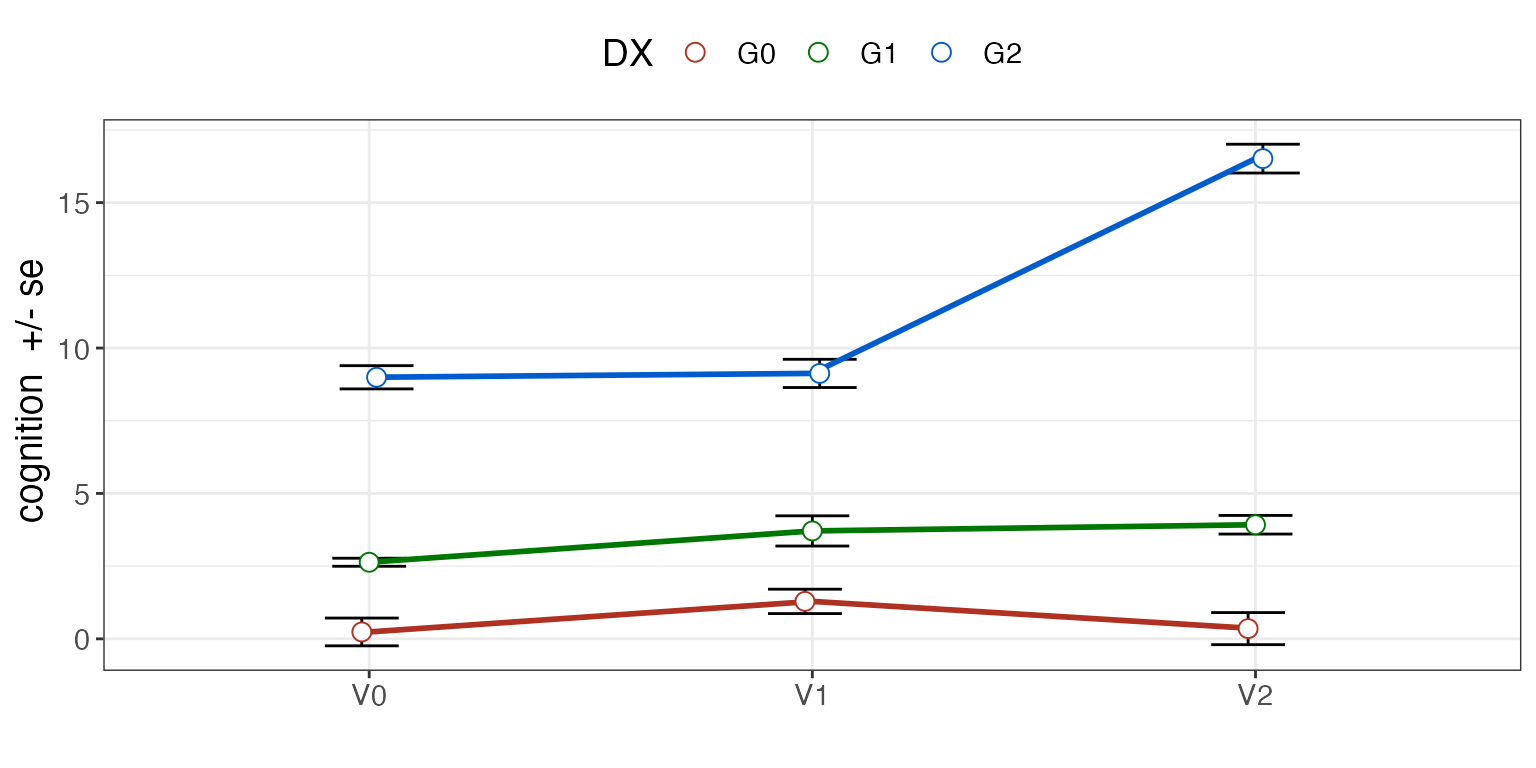
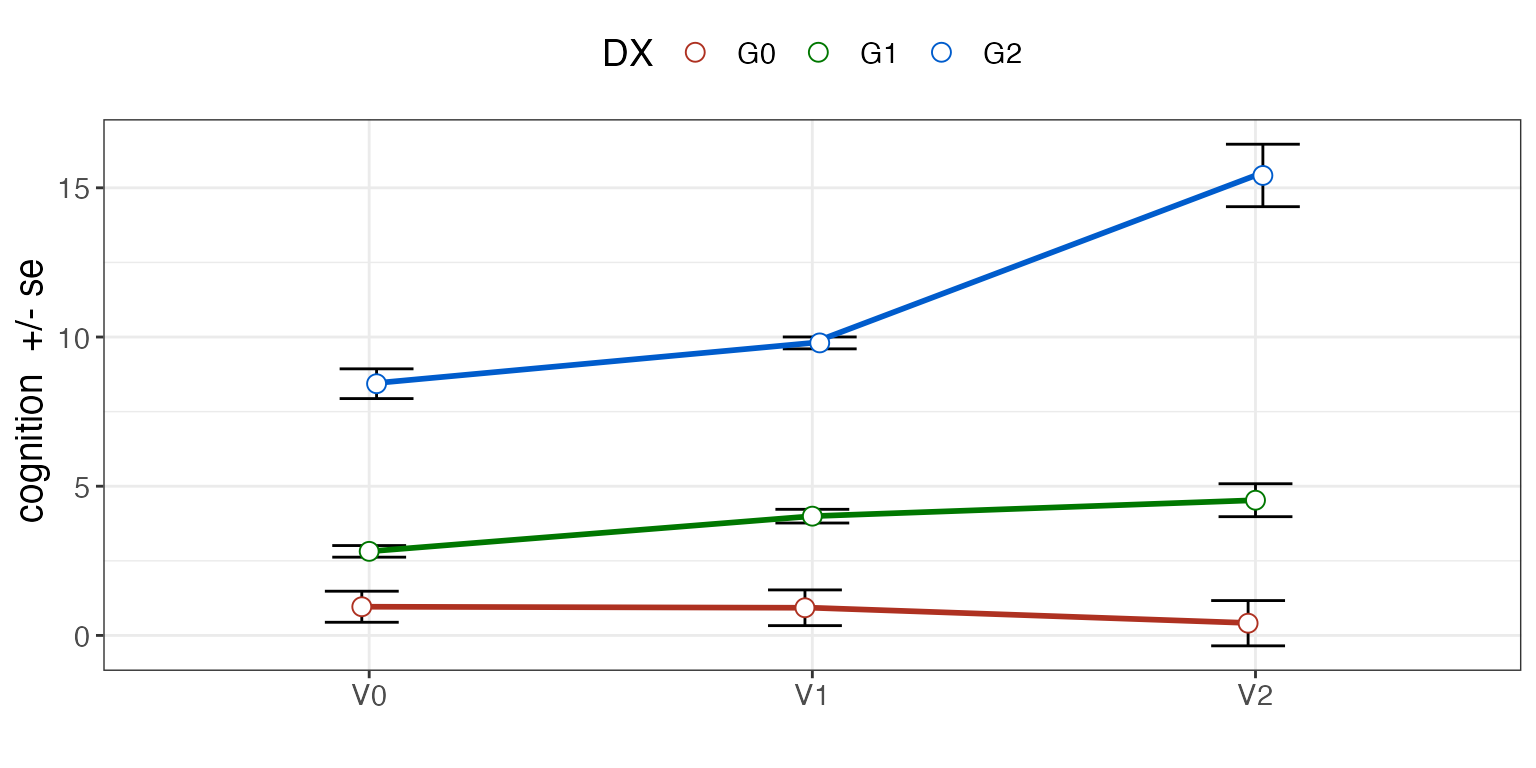
BUG: factor order; ENH: return ggplot

diff --git a/docs/articles/subtyper.html b/docs/articles/subtyper.html
@@ -184,27 +184,27 @@
 <tbody>
 <tr class="odd">
 <td align="left">C0</td>
+<td align="right">3</td>
 <td align="right">12</td>
-<td align="right">0</td>
 <td align="right">0</td>
 </tr>
 <tr class="even">
 <td align="left">C1</td>
 <td align="right">0</td>
-<td align="right">9</td>
 <td align="right">0</td>
+<td align="right">6</td>
 </tr>
 <tr class="odd">
 <td align="left">C2</td>
 <td align="right">0</td>
-<td align="right">2</td>
-<td align="right">4</td>
+<td align="right">0</td>
+<td align="right">5</td>
 </tr>
 <tr class="even">
 <td align="left">C3</td>
+<td align="right">9</td>
 <td align="right">0</td>
 <td align="right">0</td>
-<td align="right">7</td>
 </tr>
 </tbody>
 </table>
@@ -214,11 +214,13 @@
 <a href="#visualize-the-results" class="anchor"></a>Visualize the results</h2>
 <p>See the difference with diagnosis.</p>
 <div class="sourceCode" id="cb9"><pre class="downlit sourceCode r">
-<code class="sourceCode R"><span class="va">summ</span> <span class="op">=</span> <span class="fu"><a href="../reference/plotSubtypeChange.html">plotSubtypeChange</a></span><span class="op">(</span> <span class="va">mydf</span>, <span class="st">"Id"</span>, <span class="st">"cognition"</span>, <span class="st">"DX"</span>, <span class="st">"visit"</span>, whiskervar<span class="op">=</span><span class="st">'se'</span>  <span class="op">)</span></code></pre></div>
+<code class="sourceCode R"><span class="va">summ</span> <span class="op">=</span> <span class="fu"><a href="../reference/plotSubtypeChange.html">plotSubtypeChange</a></span><span class="op">(</span> <span class="va">mydf</span>, <span class="st">"Id"</span>, <span class="st">"cognition"</span>, <span class="st">"DX"</span>, <span class="st">"visit"</span>, whiskervar<span class="op">=</span><span class="st">'se'</span>  <span class="op">)</span>
+<span class="fu"><a href="https://rdrr.io/r/base/print.html">print</a></span><span class="op">(</span> <span class="va">summ</span> <span class="op">)</span></code></pre></div>
 <p><img src="subtyper_files/figure-html/plotit-1.png" width="768"> See the difference with subtype.</p>
 <div class="sourceCode" id="cb10"><pre class="downlit sourceCode r">
 <code class="sourceCode R"><span class="va">summ</span> <span class="op">=</span> <span class="fu"><a href="../reference/plotSubtypeChange.html">plotSubtypeChange</a></span><span class="op">(</span> <span class="va">pdf</span>, <span class="st">"Id"</span>, <span class="st">"cognition"</span>, <span class="st">"subtype"</span>, <span class="st">"visit"</span>, whiskervar<span class="op">=</span><span class="st">'se'</span> <span class="op">)</span>
-<span class="co">#&gt; Warning in qt(conf.interval/2 + 0.5, datac$N - 1): NaNs produced</span></code></pre></div>
+<span class="co">#&gt; Warning in qt(conf.interval/2 + 0.5, datac$N - 1): NaNs produced</span>
+<span class="fu"><a href="https://rdrr.io/r/base/print.html">print</a></span><span class="op">(</span> <span class="va">summ</span> <span class="op">)</span></code></pre></div>
 <p><img src="subtyper_files/figure-html/plotit2-1.png" width="768"></p>
 <p>Visualization of the subtype definition against various outcomes is key to establishing validity.</p>
 </div>

diff --git a/docs/reference/plotSubtypeChange.html b/docs/reference/plotSubtypeChange.html
@@ -178,7 +178,7 @@
 
     <h2 class="hasAnchor" id="value"><a class="anchor" href="#value"></a>Value</h2>
 
-    <p>data frame</p>
+    <p>ggplot</p>
     <h2 class="hasAnchor" id="author"><a class="anchor" href="#author"></a>Author</h2>
 
     <p>Avants BB</p>
@@ -186,7 +186,7 @@
     <h2 class="hasAnchor" id="examples"><a class="anchor" href="#examples"></a>Examples</h2>
     <pre class="examples"><div class='input'><span class='va'>mydf</span> <span class='op'>=</span> <span class='fu'><a href='generateSubtyperData.html'>generateSubtyperData</a></span><span class='op'>(</span> <span class='fl'>100</span> <span class='op'>)</span>
 <span class='va'>summ</span> <span class='op'>=</span> <span class='fu'>plotSubtypeChange</span><span class='op'>(</span> <span class='va'>mydf</span>, <span class='st'>"Id"</span>, <span class='st'>"cognition"</span>, <span class='st'>"DX"</span>, <span class='st'>"visit"</span> <span class='op'>)</span>
-</div><div class='img'><img src='plotSubtypeChange-1.png' alt='' width='700' height='433' /></div></pre>
+</div></pre>
   </div>
   <div class="col-md-3 hidden-xs hidden-sm" id="pkgdown-sidebar">
     <nav id="toc" data-toggle="toc" class="sticky-top">
